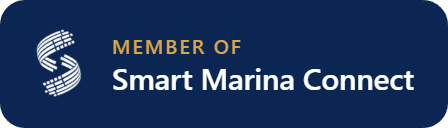
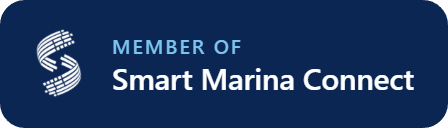
Accent colour: sky blue instead of gold (Victor, 21 Oct: other sites use the navy + gold palette)
The three accent tokens change in src/index.css (--gold #7cc4f0, --gold-hover #5fb3e8,
--gold-text #1b6ea8 for text on white, 5.5:1; navy text on the accent 7.8:1); the class
names stay bg-gold, text-gold-text... so every screen follows. Also: the shadcn secondary
colour, the reading-progress line, the search focus halo, the admin chart colours, the
winner badge (Victor: blue too), the Associate/Premium partner badges (sky/cyan instead of
amber), and the member badges (SVG fill + PNG "MEMBER OF" line recoloured, anti-aliasing kept).
E-mails keep gold until their functions are redeployed at go-live (EmailPreview mirrors them).

Changed region(s): [[0.25, 0.3125, 0.5625, 0.4375]]

diff --git a/src/pages/BrandShowcasePage.tsx b/src/pages/BrandShowcasePage.tsx
@@ -26,8 +26,8 @@ const SWATCHES: { name: string; hex: string; cls: string; dark?: boolean }[] = [
   { name: 'navy', hex: '#0b2653', cls: 'bg-navy', dark: true },
   { name: 'navy-deep', hex: '#081d40', cls: 'bg-navy-deep', dark: true },
   { name: 'chip', hex: '#eef2f8', cls: 'bg-chip' },
-  { name: 'gold (action)', hex: '#d7a647', cls: 'bg-gold' },
-  { name: 'gold-text', hex: '#87681b', cls: 'bg-gold-text', dark: true },
+  { name: 'gold (action, sky blue)', hex: '#7cc4f0', cls: 'bg-gold' },
+  { name: 'gold-text', hex: '#1b6ea8', cls: 'bg-gold-text', dark: true },
   { name: 'teal', hex: '#1f7a8c', cls: 'bg-teal', dark: true },
   { name: 'foam', hex: '#eaf3f4', cls: 'bg-foam' },
   { name: 'page', hex: '#f6f7f9', cls: 'bg-page' },
@@ -121,7 +121,7 @@ export function BrandShowcasePage() {
           <p className="text-meta-caps">Meta 12/16 caps .06em 500</p>
           <p className="text-figure text-navy tabular">1,234</p>
           <p className="font-wordmark text-xl font-semibold text-navy">Smart Marina Connect (Outfit 600 wordmark)</p>
-          <p className="text-gold-text text-sm font-semibold">Gold text #87681b on white</p>
+          <p className="text-gold-text text-sm font-semibold">Accent text #1b6ea8 on white</p>
         </div>
       </Section>
 
@@ -187,7 +187,7 @@ export function BrandShowcasePage() {
         </div>
       </Section>
 
-      <Section id="reveals" title="Reveals and heading lines" note="Section eyebrows carry a small gold number (01, 02…): #87681b on light, #d7a647 on navy, tabular figures, hidden from screen readers.">
+      <Section id="reveals" title="Reveals and heading lines" note="Section eyebrows carry a small accent number (01, 02…): #1b6ea8 on light, #7cc4f0 on navy, tabular figures, hidden from screen readers.">
         <div className="mb-8 flex flex-wrap items-center gap-x-10 gap-y-4">
           <Eyebrow number="01">Section eyebrow, light</Eyebrow>
           <div className="rounded-pill bg-navy px-5 py-3">

diff --git a/src/index.css b/src/index.css
@@ -15,10 +15,12 @@
     --navy: 11 38 83;          /* #0b2653 brand, headings, panels */
     --navy-deep: 8 29 64;      /* #081d40 large panels, footer */
     --chip: 238 242 248;       /* #eef2f8 chip and counter backgrounds */
-    /* Gold: the main action and selected states only (navy text on it, 6.7:1) */
-    --gold: 215 166 71;        /* #d7a647 */
-    --gold-hover: 201 154 61;  /* #c99a3d */
-    --gold-text: 135 104 27;   /* #87681b gold for text on white, 5.2:1 */
+    /* The accent: the main action and selected states only (navy text on it, 7.8:1).
+       Still named "gold": it was #d7a647 until 21 Oct 2026, when Victor chose sky blue
+       (other sites use a navy + gold palette). Class names stay bg-gold, text-gold-text… */
+    --gold: 124 196 240;       /* #7cc4f0 sky blue */
+    --gold-hover: 95 179 232;  /* #5fb3e8 */
+    --gold-text: 27 110 168;   /* #1b6ea8 accent for text on white, 5.5:1 */
     /* Accents */
     --teal: 31 122 140;        /* #1f7a8c eyebrow marks, verified icon, quotes */
     --teal-text: 25 106 122;   /* #196a7a teal words on foam (5.5:1) or white (6.2:1) */
@@ -59,7 +61,7 @@
     --popover-foreground: 215 28% 17%;
     --primary: 218 77% 18%;             /* navy */
     --primary-foreground: 0 0% 100%;
-    --secondary: 40 64% 56%;            /* gold */
+    --secondary: 203 79% 71%;           /* the accent (sky blue, token "gold") */
     --secondary-foreground: 218 77% 18%;
     --muted: 216 42% 95%;               /* chip */
     --muted-foreground: 219 13% 41%;    /* meta */

diff --git a/src/components/admin/AdminDashboard.tsx b/src/components/admin/AdminDashboard.tsx
@@ -96,18 +96,18 @@ interface InsightItem {
 
 const PERSONA_COLORS: Record<string, string> = {
   marina: '#0b2653', partner: '#1f7a8c', media_partner: '#64748b',
-  individual: '#d7a647', admin: '#b91c1c', moderator: '#b91c1c',
+  individual: '#7cc4f0', admin: '#b91c1c', moderator: '#b91c1c',
 };
 const STATUS_COLORS: Record<string, string> = {
-  verified: '#1f7a8c', pending: '#d7a647',
+  verified: '#1f7a8c', pending: '#7cc4f0',
   rejected: '#b91c1c', suspended: '#64748b',
 };
 const TIER_CHART_COLORS: Record<string, string> = {
   member: '#94a3b8', innovation_partner: '#4a6fa5', associate_partner: '#1f7a8c',
-  premium_partner: '#d7a647', premium_sponsor: '#0b2653', main_sponsor: '#081d40',
+  premium_partner: '#7cc4f0', premium_sponsor: '#0b2653', main_sponsor: '#081d40',
 };
 const LEAD_STATUS_COLORS: Record<string, string> = {
-  new: '#d7a647', qualified: '#4a6fa5', in_discussion: '#1f7a8c',
+  new: '#7cc4f0', qualified: '#4a6fa5', in_discussion: '#1f7a8c',
   signed: '#0b2653', rejected: '#b91c1c',
 };
 

diff --git a/src/types/database.ts b/src/types/database.ts
@@ -309,8 +309,9 @@ export const TIER_LABELS: Record<OrgTier, string> = {
 export const TIER_COLORS: Record<OrgTier, { bg: string; text: string; border: string }> = {
   member: { bg: 'bg-gray-50', text: 'text-gray-700', border: 'border-gray-200' },
   innovation_partner: { bg: 'bg-blue-50', text: 'text-blue-700', border: 'border-blue-200' },
-  associate_partner: { bg: 'bg-amber-50', text: 'text-amber-700', border: 'border-amber-200' },
-  premium_partner: { bg: 'bg-amber-50', text: 'text-amber-700', border: 'border-amber-200' },
+  // Sky and cyan, not amber: no gold on the site since 21 Oct 2026 (Victor).
+  associate_partner: { bg: 'bg-sky-50', text: 'text-sky-800', border: 'border-sky-200' },
+  premium_partner: { bg: 'bg-cyan-50', text: 'text-cyan-800', border: 'border-cyan-200' },
   premium_sponsor: { bg: 'bg-orange-50', text: 'text-orange-700', border: 'border-orange-200' },
   main_sponsor: { bg: 'bg-purple-50', text: 'text-purple-700', border: 'border-purple-200' },
 };

diff --git a/src/components/layout/ReadingProgress.tsx b/src/components/layout/ReadingProgress.tsx
@@ -1,7 +1,7 @@
 import { useEffect, useRef } from 'react';
 
 /**
- * A thin gold reading-progress line (2 px, #d7a647) along the bottom edge of the
+ * A thin accent reading-progress line (2 px, sky blue) along the bottom edge of the
  * full-width header bar, growing from the left with how far the page has been read (scaleX, one
  * requestAnimationFrame per burst of scroll, one passive listener). Decorative
  * (aria-hidden). It has no transition: it simply follows the scroll, so under
@@ -46,7 +46,7 @@ export function ReadingProgress({ className }: { className?: string }) {
 
   return (
     <span aria-hidden="true" className={className ?? 'pointer-events-none absolute inset-x-0 bottom-0 block h-0.5 print:hidden'}>
-      <span ref={ref} className="block h-full origin-left bg-[#d7a647]" style={{ transform: 'scaleX(0)' }} />
+      <span ref={ref} className="block h-full origin-left bg-gold" style={{ transform: 'scaleX(0)' }} />
     </span>
   );
 }

diff --git a/tailwind.config.js b/tailwind.config.js
@@ -10,8 +10,9 @@
  * their classes and simply pick up the new palette.
  *
  * Rules of use (design proposal §5):
- *  - gold is for the main action and selected states only, with navy text;
- *    gold TEXT on white is gold-text (#87681b), never gold itself;
+ *  - gold (the accent, sky blue #7cc4f0 since 21 Oct 2026) is for the main action and
+ *    selected states only, with navy text; accent TEXT on white is gold-text (#1b6ea8),
+ *    never gold itself;
  *  - teal marks eyebrow dots, the verified icon and quotes;
  *  - organisation type colours always sit next to the written type label.
  */
@@ -49,7 +50,7 @@ export default {
         },
         secondary: {
           DEFAULT: token('gold'),
-          // Gold for text on white: 5.2:1 (the old #9a7520 was 4.25:1).
+          // The accent for text on white (#1b6ea8): 5.5:1.
           dark: token('gold-text'),
           foreground: token('navy'),
         },

diff --git a/src/components/brand/SearchField.tsx b/src/components/brand/SearchField.tsx
@@ -325,7 +325,7 @@ export function SearchField({
           md ? 'h-12' : 'h-14',
           onPhoto
             // A gold ring on focus: visible against the navy hero.
-            ? 'border-2 border-white bg-white text-navy focus-within:border-gold focus-within:shadow-[0_0_0_4px_rgba(215,166,71,.35)]'
+            ? 'border-2 border-white bg-white text-navy focus-within:border-gold focus-within:shadow-[0_0_0_4px_rgba(124,196,240,.35)]'
             // #6b7588 edge: 4.6:1 against white and the page grey.
             : 'border border-checkbox bg-white text-navy focus-within:border-navy focus-within:shadow-focus',
         )}

diff --git a/src/components/brand/Eyebrow.tsx b/src/components/brand/Eyebrow.tsx
@@ -7,7 +7,7 @@ import { cn } from '@/lib/utils';
  * words in capitals, 13 px semibold, tracked at .08 em. White at 75 % on navy.
  *
  * `number` ("01", "02"…) puts a small gold section number before the dot, with
- * a short rule: gold text (#87681b) on light, gold (#d7a647) on navy, tabular
+ * a short rule: accent text (#1b6ea8) on light, accent (#7cc4f0) on navy, tabular
  * figures, hidden from screen readers (it only orders the page visually).
  */
 export function SectionNo({

diff --git a/src/components/brand/AwardBadge.tsx b/src/components/brand/AwardBadge.tsx
@@ -12,7 +12,7 @@ import { awardWinText, type AwardWin } from '@/lib/awardWins';
  *  - `WinnerLine`: the one-line version for a directory card (no link: the
  *    whole card already links to the company page).
  *
- * Gold-text #87681b on the gold tint keeps 4.7:1.
+ * The accent text #1b6ea8 on the accent tint keeps 5:1 (sky blue since 21 Oct 2026, gold before).
  */
 
 const RESULTS_PATH: Record<string, string> = { sm26: '/sm26/vote' };
